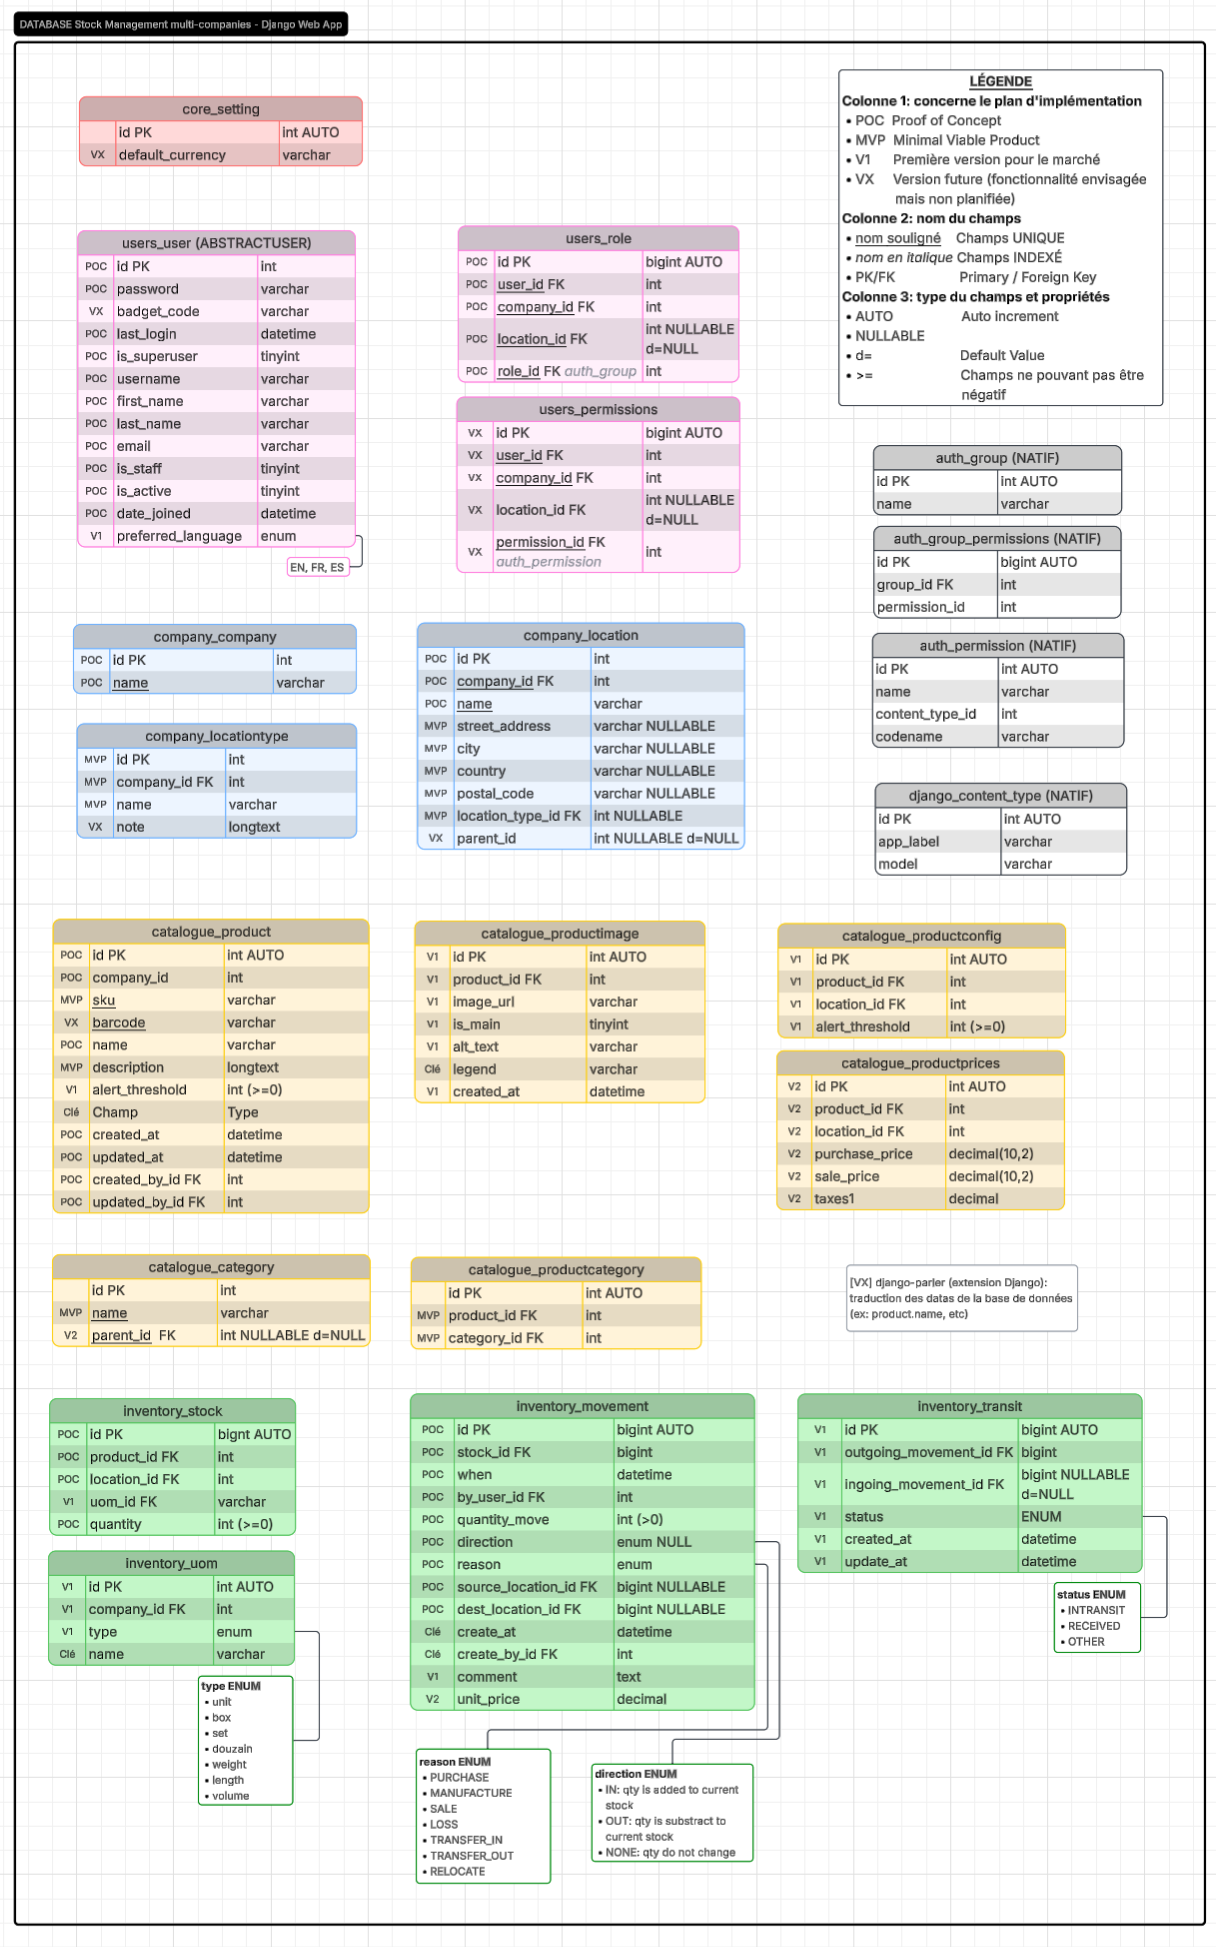
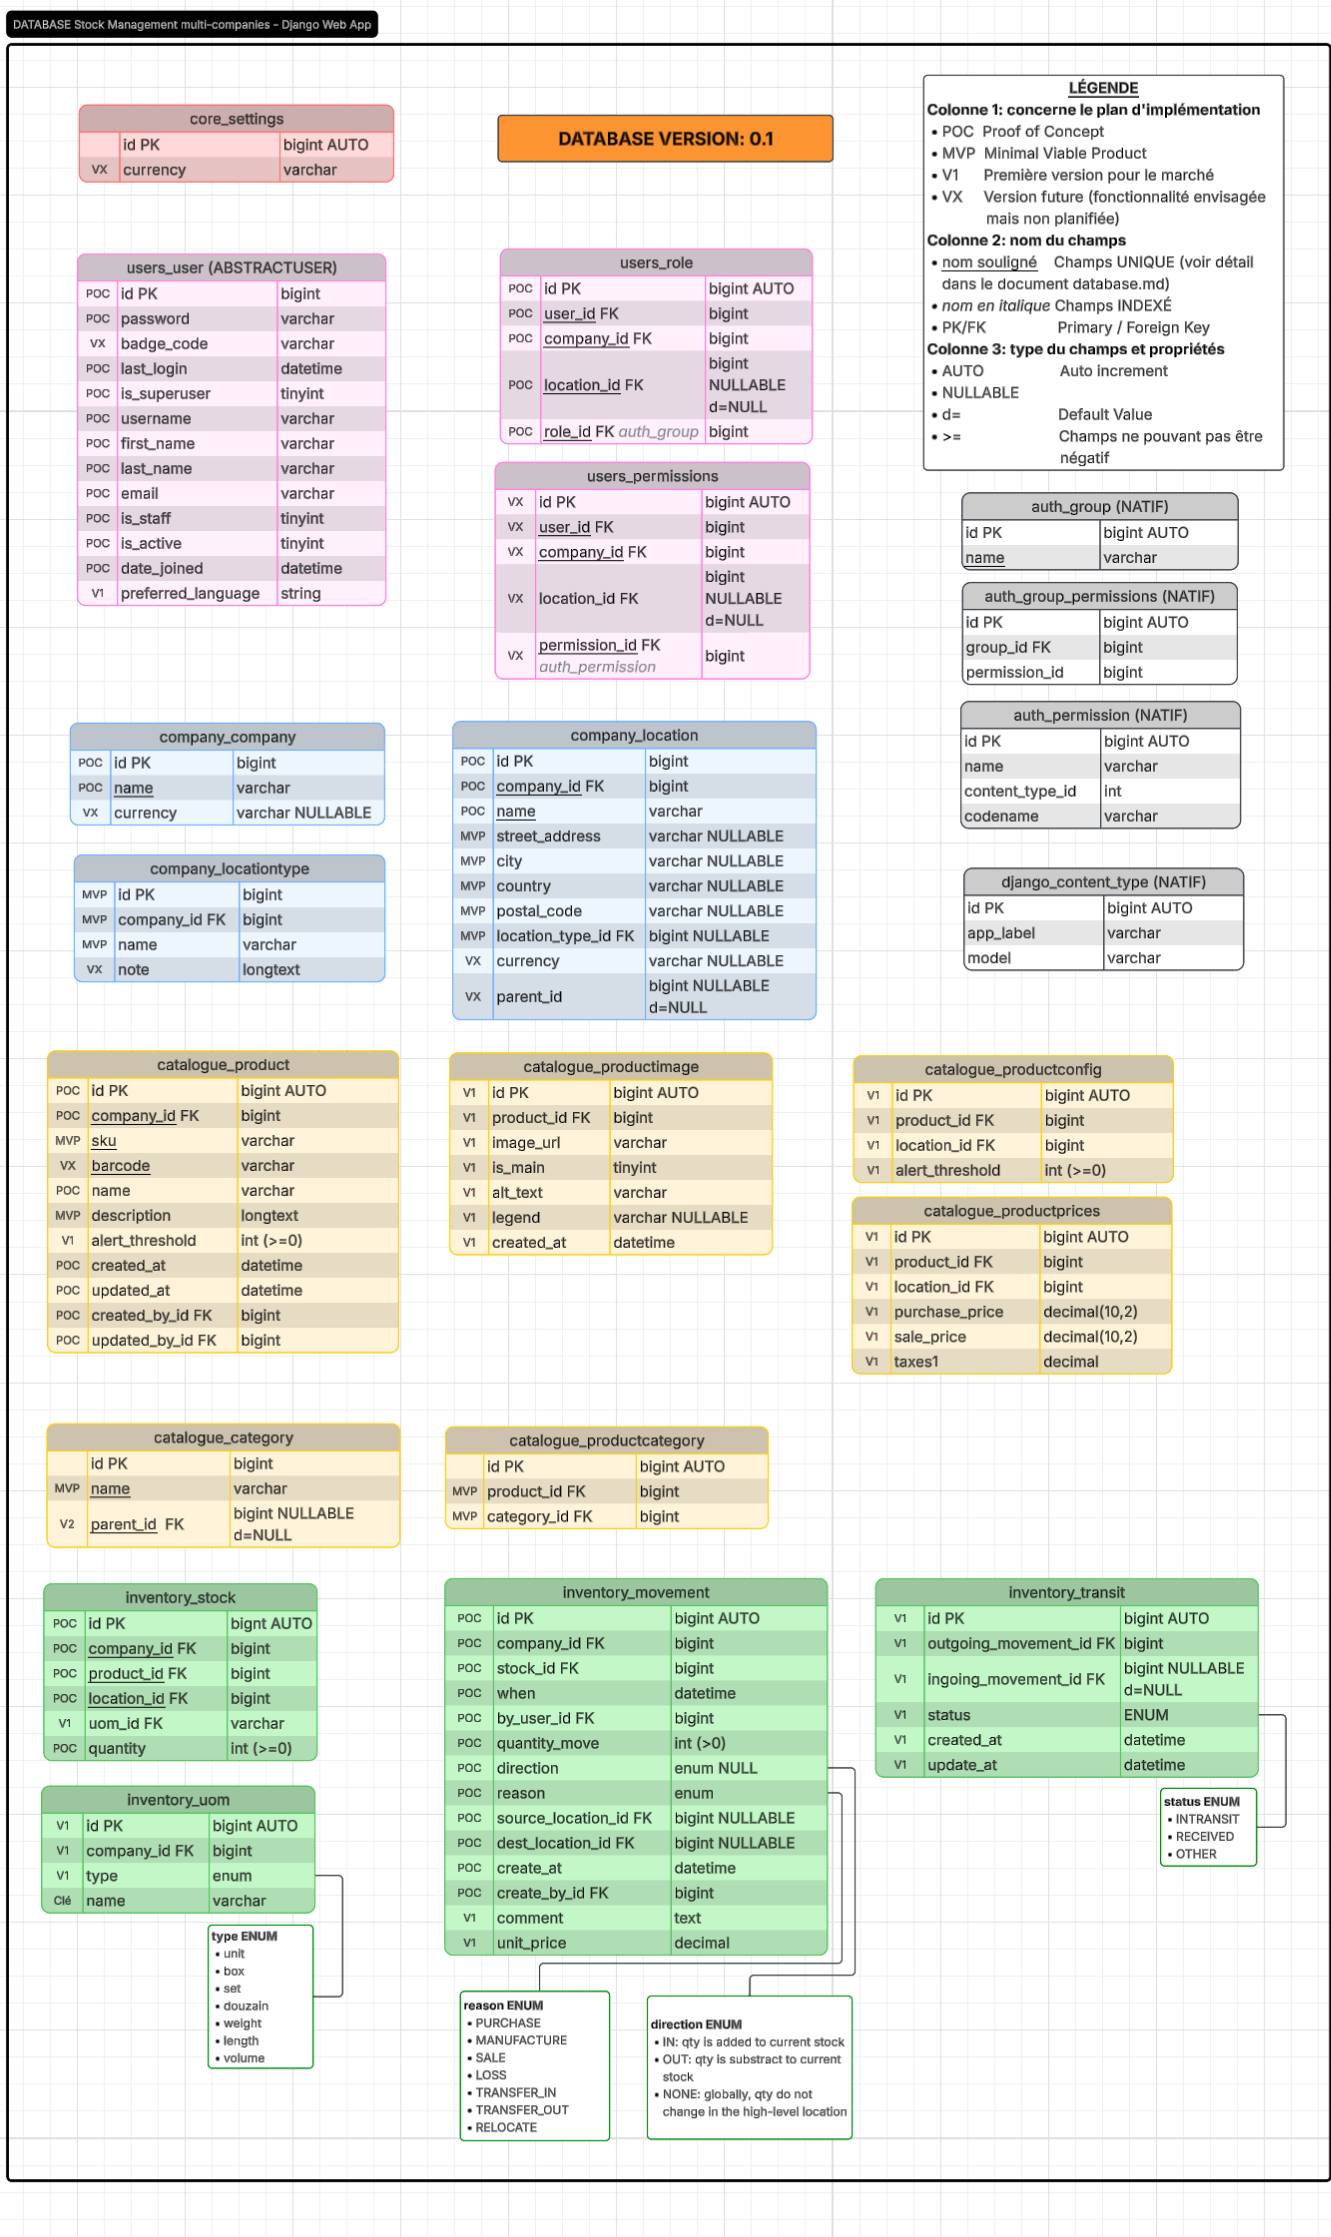
Docs revision

diff --git a/src/company/models/company.py b/src/company/models/company.py
@@ -13,3 +13,6 @@ class Company(models.Model):
 
     def __str__(self):
         return self.name
+
+
+dsfsf

diff --git a/docs/data-security.md b/docs/data-security.md
@@ -92,7 +92,7 @@ Pour exploiter cette structure, le modèle d'utilisateur personnalisé expose un
 class User(AbstractUser):
     # Champs personnalisés...
 
-    def has_location_perm(self, company_id, location_id=None, permission_codename):
+    def has_location_perm(self, company_id, permission_codename, location_id=None):
         """Vérifie si l'utilisateur a une permission spécifique dans une entreprise donnée.
         Prend en charge la restriction optionnelle par location."""
         if self.is_superuser:
@@ -254,14 +254,14 @@ Pilote l'accès aux indicateurs de performance, d'audit et d'analyse financière
 
 Lorsqu'une nouvelle entreprise (`Company`) est initialisée dans le système, l'application génère automatiquement 4 rôles (Groupes Django) prédéfinis pour cette organisation. Le propriétaire de l'entreprise peut ensuite personnaliser la liste des permissions de ces rôles ou en créer de nouveaux depuis son espace d'administration.
 
-### 1. Propriétaire (`Owner`)
+### A. Propriétaire (`Owner`)
 
 Possède l'intégralité des permissions disponibles dans l'application pour son organisation. C'est le seul rôle à détenir initialement le droit de gestion administrative des accès.
 
 * **Permissions affectées** : Toutes les permissions des scopes `users.*`, `companies.*`, `catalogue.*`, `inventory.*` et `reporting.*`.
 * **Périmètre par défaut** : Global (Entreprise complète).
 
-### 2. Gestionnaire d'Entrepôt / Magasinier en Chef
+### B. Gestionnaire d'Entrepôt / Magasinier en Chef
 
 Responsable de l'approvisionnement, de la justesse des inventaires physiques et de la configuration du catalogue d'articles locaux.
 
@@ -273,7 +273,7 @@ Responsable de l'approvisionnement, de la justesse des inventaires physiques et 
   * `reporting.view_stock_levels`
 * **Périmètre recommandé** : Global (ou restreint à un grand entrepôt de stockage).
 
-### 3. Opérateur / Employé de Magasin
+### C. Opérateur / Employé de Magasin
 
 Profil terrain dédié aux tâches logistiques quotidiennes : réception, rangement et expédition. Il ne peut pas modifier les fiches produits ni déclarer des pertes sèches sans validation.
 
@@ -284,7 +284,7 @@ Profil terrain dédié aux tâches logistiques quotidiennes : réception, rangem
   * `inventory.movement_transfer_in`, `inventory.movement_relocate`
 * **Périmètre recommandé** : Restreint à l'emplacement physique d'affectation (ex: Boutique B uniquement).
 
-### 4. Auditeur / Comptable (Lecture Seule)
+### D. Auditeur / Comptable (Lecture Seule)
 
 Profil de consultation destiné au suivi de la santé financière, à la valorisation des stocks et aux inventaires comptables de fin d'année.
 
@@ -294,3 +294,8 @@ Profil de consultation destiné au suivi de la santé financière, à la valoris
   * `inventory.view_stock`, `inventory.view_movement`
   * `reporting.view_stock_levels`, `reporting.view_financials`
 * **Périmètre recommandé** : Global (Entreprise complète).
+
+
+### <a id="isolation_rôles">4.1. Choix architectural : Isolation des Rôles (Groupes Django)
+
+Django ne permet pas de définir un AbstractGroup personnalisé comme il le fait pour le AbstractUser. AInsi, pour permettre à chaque entreprise de personnaliser les permissions de ses rôles sans affecter les autres entreprise, l'application utilise la nomenclature technique suivante en arrière-plan sur le champ `Group.name` : `{company_id}_{nom_du_role}` À l'affichage (Interface Utilisateur et Administration), le préfixe numérique est masqué via un traitement de chaîne (`name.split('_')[-1]`) pour offrir une expérience utilisateur naturelle et standardisée.**. Il est aussi envisager de permettre des rôles globaux pour toutes les compagnies à la fois en utilisant le préfixe "0_".
